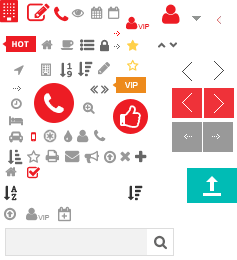
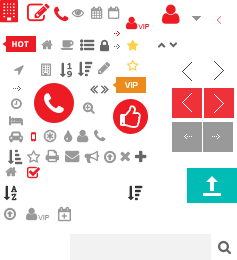
duy

Changed region(s): [[0.0295, 0.8615, 0.7384, 0.9538], [0.0, 0.8923, 0.2954, 0.9846], [0.9156, 0.9231, 0.9747, 0.9846]]

diff --git a/assets/frontend/css/site.css b/assets/frontend/css/site.css
@@ -102,11 +102,11 @@ h1, h2, h3, h4, h5, h6{
     padding: 8px 25px 9px;
 }
 .box-search .seach {
-    background: rgba(0, 0, 0, 0) url("../img/icon.png") no-repeat scroll -5px -228px;
-    height: 29px;
-    width: 169px;
+    background: #f2f2f2 url("../img/icon.png") no-repeat scroll right -234px;
+    border: 1px solid #ddd;
+    height: 28px;
+    width: 345px;
 }
-
 .box-search .seach .keyword{
     color: #333;
     float: left;
@@ -114,7 +114,7 @@ h1, h2, h3, h4, h5, h6{
     height: 24px;
     padding: 3px 4px 0;
     text-indent: 5px;
-    width: 133px;
+    width: 90%;
 }
 .box-search .seach .btn-seach{
 	border: medium none;
@@ -145,7 +145,7 @@ h1, h2, h3, h4, h5, h6{
     height: 45px;
     margin-right: 13px;
     padding: 6px 10px 11px;
-    width: 172px;
+    width: 205px;
     overflow: hidden;
 }
 .list-link > li {
@@ -316,14 +316,15 @@ h1, h2, h3, h4, h5, h6{
 }
 .box-home-post-hot ul li .img-hot {
     float: left;
-    position: relative;
-    width: 100%;
     height: 150px;
+    position: relative;
+    text-align: center;
+    width: 100%;
 }
 .box-home-post-hot ul li .img-hot img {
-    float: left;
-    width: 100%;
     height: 100%;
+    width: auto;
+	max-width:100%;
 }
 .box-home-post-hot ul li .title-item-hot{
     box-sizing: border-box;
@@ -1419,4 +1420,54 @@ h1, h2, h3, h4, h5, h6{
 }
 #owl-slider-view .owl-buttons .owl-next:hover {
     background: url(../img/icon.png) no-repeat -205px -88px;
+}
+#sliderHead .rslides img{
+	max-width:100%!important;
+	width:auto!important;
+}
+
+.contact input[type="text"] {
+    border: 1px solid #ccc;
+    font-size: 14px;
+    height: 30px;
+	border-radius: 0;
+	box-shadow: none;
+}
+.contact textarea{
+	border-radius: 0;
+	box-shadow: none;
+}
+.contact label span{
+	color:#ff0000;
+}
+.contact .form-group{
+	clear: both;
+}
+.labelInputCaptchar{
+	clear:both;
+	width:100%;
+}
+.txtInputCaptchar{
+	float: left;
+	display: inline-block;
+}
+.imageCaptchar{
+	display: inline-block;
+    float: left;
+    height: 30px;
+    margin-left: 10px;
+    width: 35px;
+}
+.iconRefreh {
+    background: rgba(0, 0, 0, 0) url("../img/refreh.png") no-repeat scroll 0 0;
+    display: inline-block;
+    float: left;
+    height: 35px;
+    margin-left: 10px;
+    width: 35px;
+}
+.mgt10 {
+    display: inline-block;
+    margin-top: 10px;
+    width: 100%;
 }

diff --git a/app/routes/routes_site.php b/app/routes/routes_site.php
@@ -10,7 +10,7 @@
 Route::any('/', array('as' => 'site.home','uses' => 'SiteHomeController@index'));
 Route::get('404.html',array('as' => 'site.page404','uses' =>'SiteHomeController@page404'));
 Route::get('tim-kiem.html',array('as' => 'site.searchItems','uses' =>'SiteHomeController@searchItems'));
-
+Route::get('lien-he.html',array('as' => 'site.pageContact','uses' =>'SiteHomeController@pageContact'));
 //Register - Login
 Route::match(['GET','POST'],'dang-ky.html', array('as' => 'customer.pageRegister','uses' => 'SiteUserCustomerController@pageRegister'));
 Route::match(['GET','POST'],'kich-hoat-tai-khoan.html', array('as' => 'customer.pageActiveRegister','uses' => 'SiteUserCustomerController@pageActiveRegister'));

diff --git a/app/controllers/site/SiteHomeController.php b/app/controllers/site/SiteHomeController.php
@@ -334,5 +334,17 @@ class SiteHomeController extends BaseSiteController
 		$this->layout->content = View::make('site.SiteLayouts.page404');
 		$this->footer();
 	}
+	public function pageContact(){
+		$meta_title = $meta_keywords = $meta_description = 'Liên hệ Raovat30s.vn';
+		$meta_img= '';
+		FunctionLib::SEO($meta_img, $meta_title, $meta_keywords, $meta_description);
+		$arrBannerRight = $this->bannerRight(CGlobal::BANNER_TYPE_RIGHT);
+		
+		$this->header();
+		$this->menuLeft();
+		$this->layout->content = View::make('site.SiteLayouts.pageContact')
+								->with('arrBannerRight', $arrBannerRight);
+		$this->footer();
+	}
 }
 
